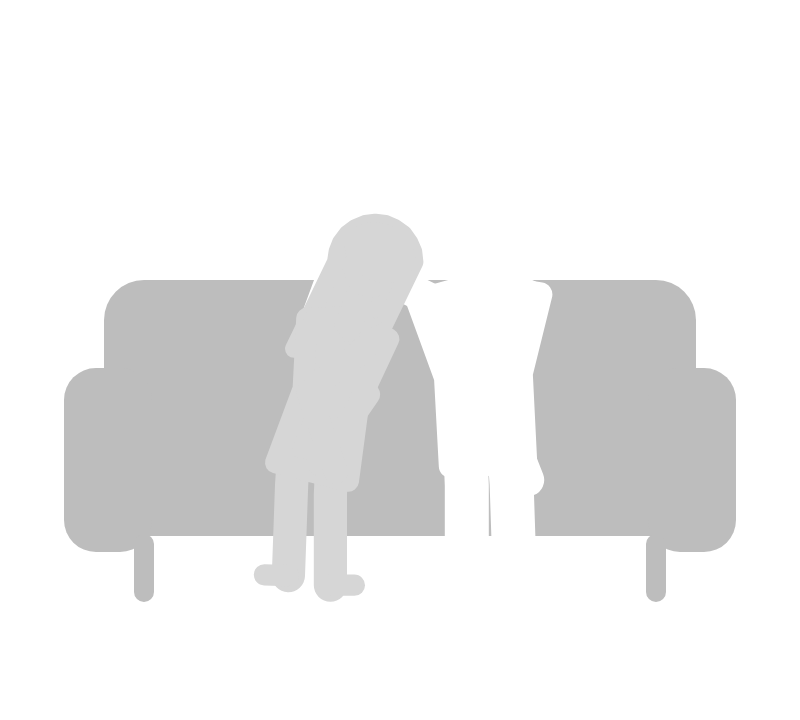
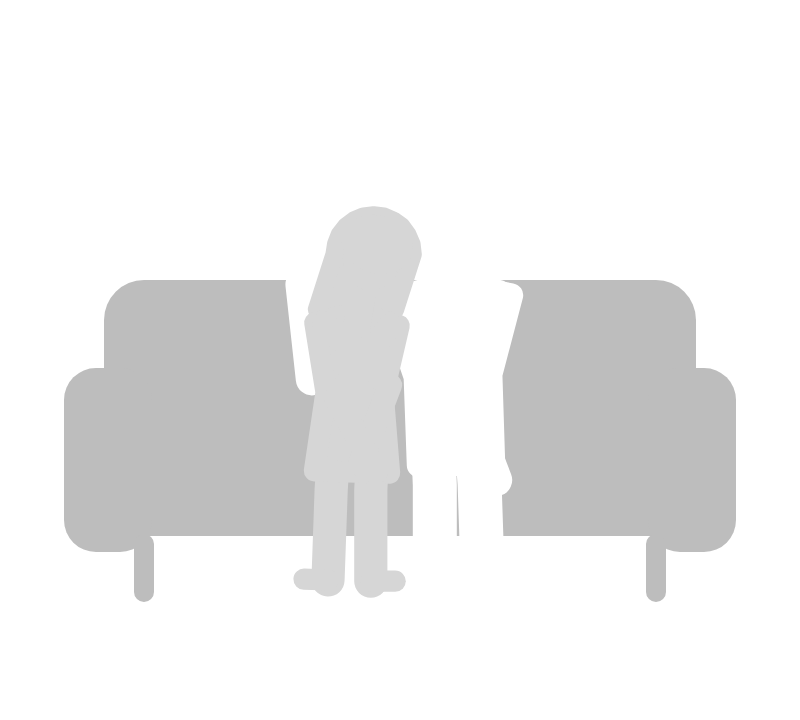
Partner moments: couch, sitting side by side and upright
Claude-Session: https://claude.ai/code/session_0163xH4XRYdHcSjt4CmHkq4N

diff --git a/tools/partner/make_silhouettes.py b/tools/partner/make_silhouettes.py
@@ -465,10 +465,10 @@ def moments():
     sofa_front = (rect(26, 116, 148, 18, 6, PROP_BACK) + rect(16, 92, 22, 46, 8, PROP_BACK)
                   + rect(162, 92, 22, 46, 8, PROP_BACK)
                   + stroke("M 36 136 L 36 148 M 164 136 L 164 148", 5, PROP_BACK))
-    her = Figure((78, 118), facing=0, woman=True, scale=0.82, lean=14, head=12, shins=(6, 30),
+    her = Figure((88, 118), facing=0, woman=True, scale=0.82, lean=2, head=16, hair=0.6, shins=(6, 30),
                  legs=((4, 2), (-2, 0)))
-    him = Figure((122, 116), facing=0, scale=0.85, lean=-3, shins=(6, 32), legs=((-2, 0), (4, 2)))
-    him.reach(0, add(her.shoulder(0), (-2, 6)), elbow=1)
+    him = Figure((114, 116), facing=0, scale=0.85, lean=-2, shins=(6, 32), legs=((-2, 0), (4, 2)))
+    him.reach(0, add(her.shoulder(0), (-3, 14)), elbow=1)
     him.reach(1, add(him.hip, (10, 4)))
     lap = add(her.hip, (4, -2))
     her.reach(0, add(lap, (-2, 0)))
